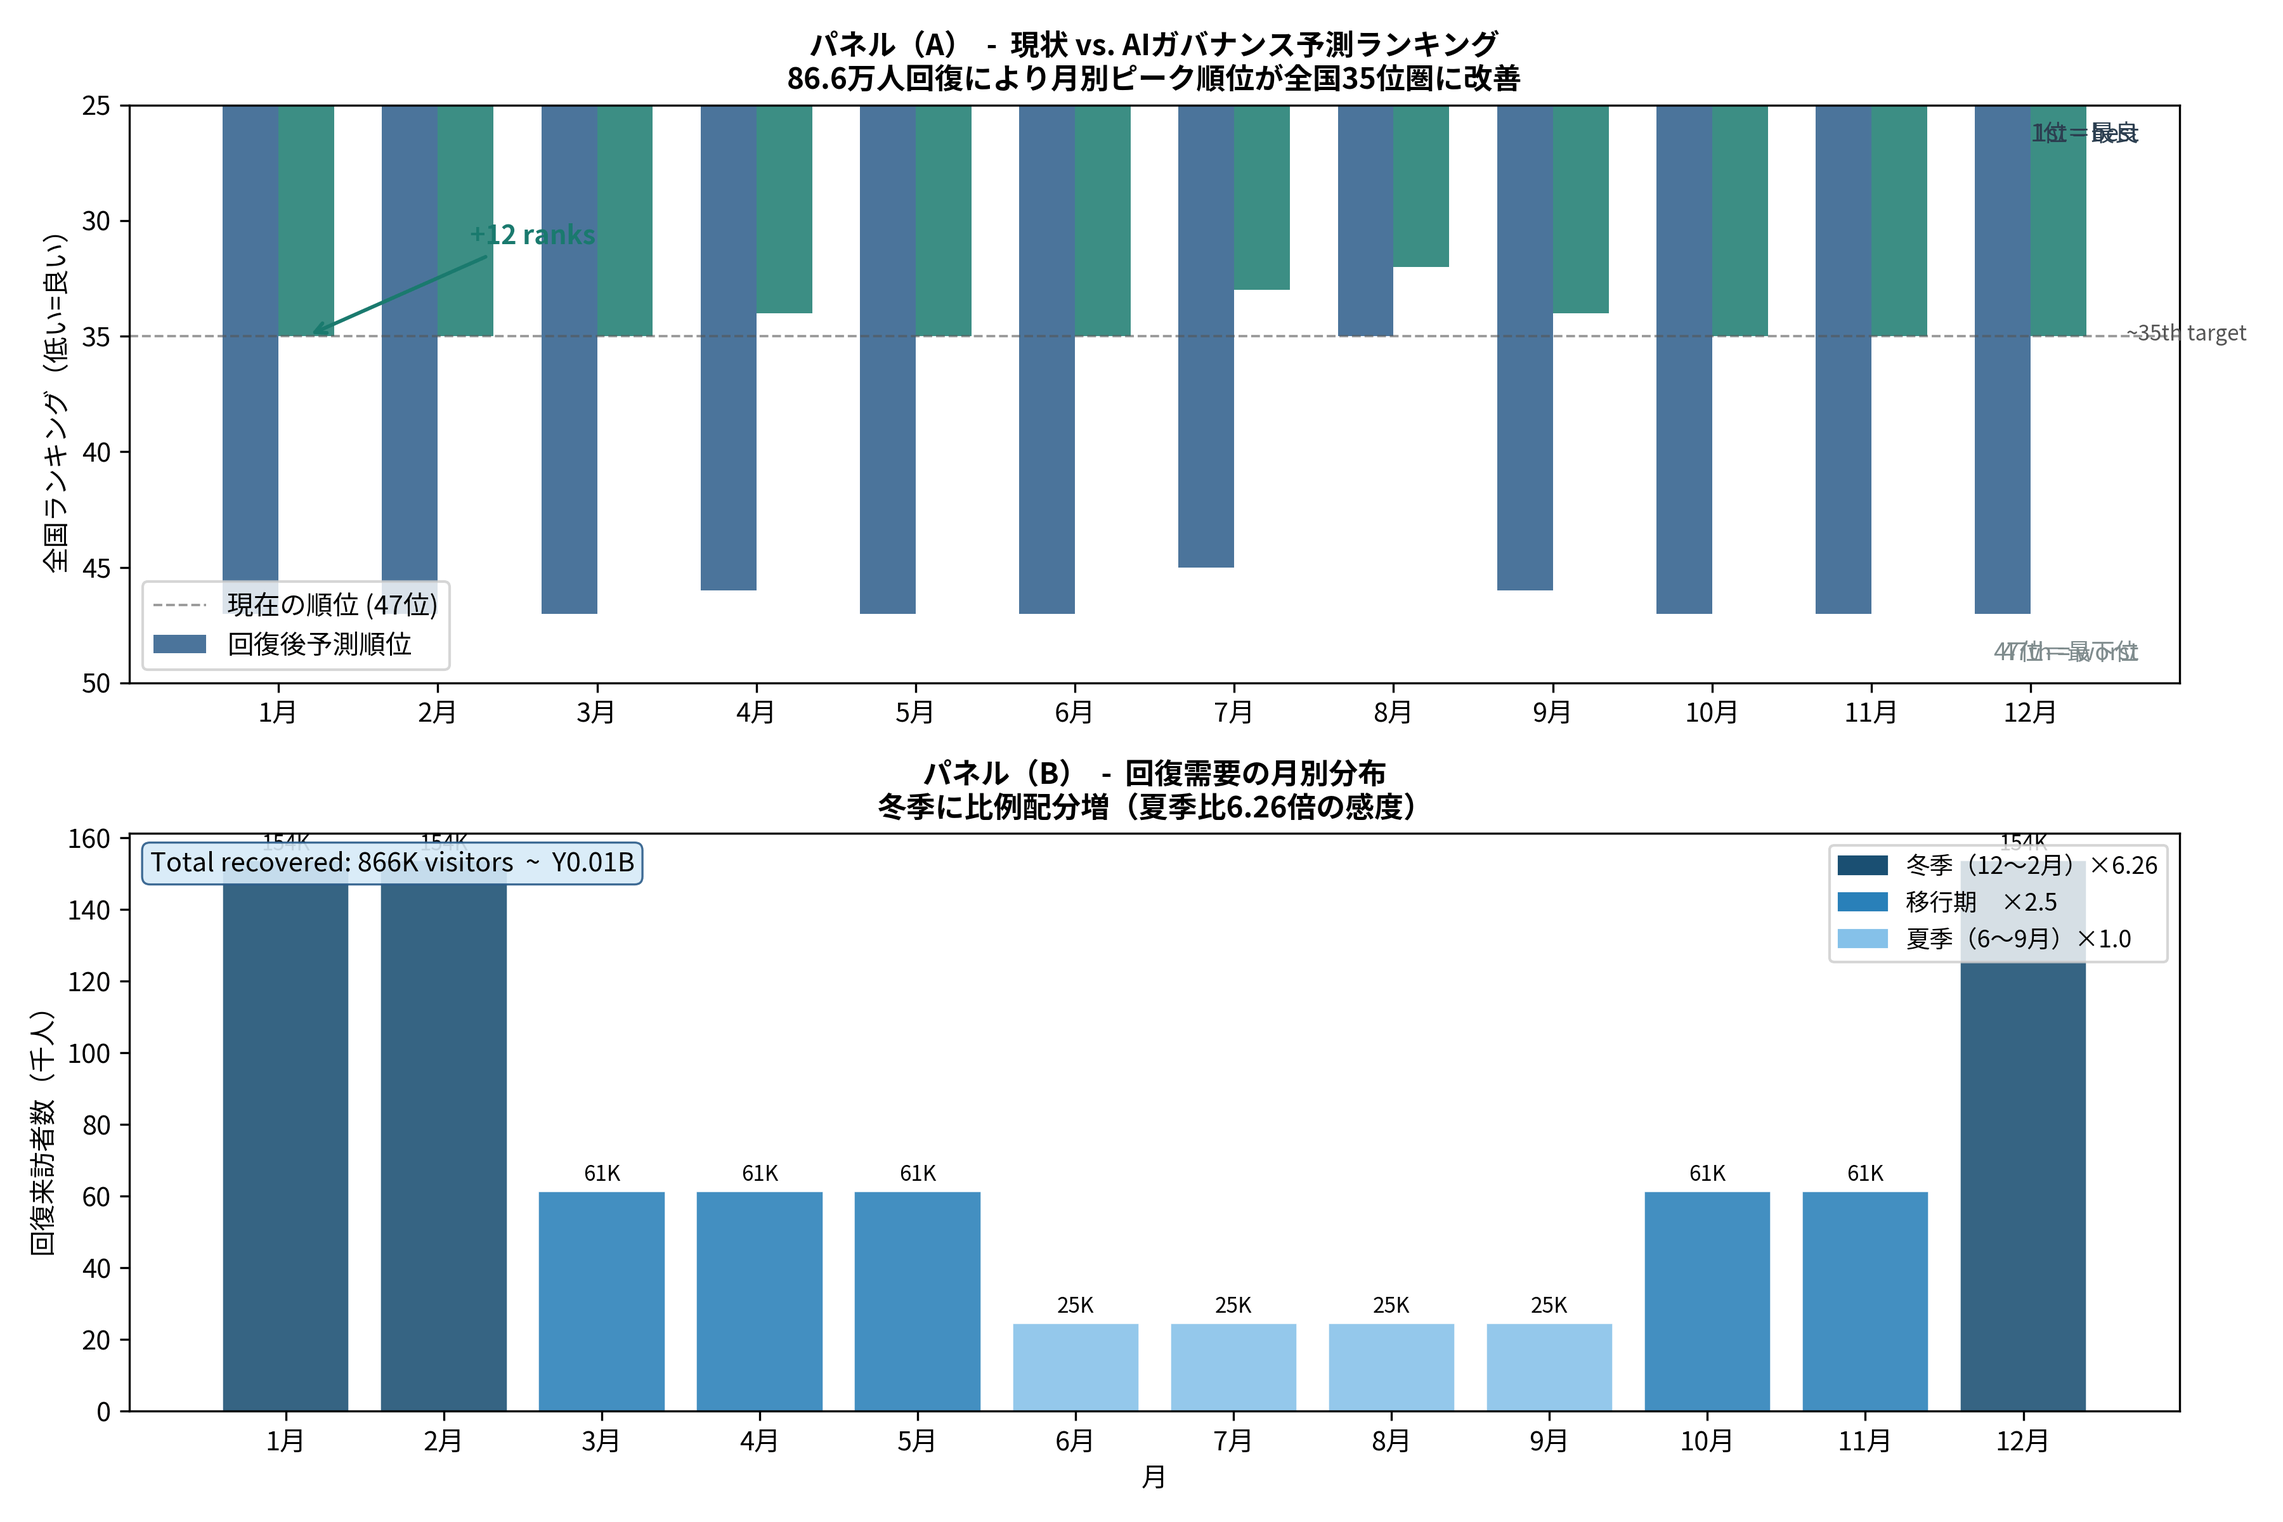
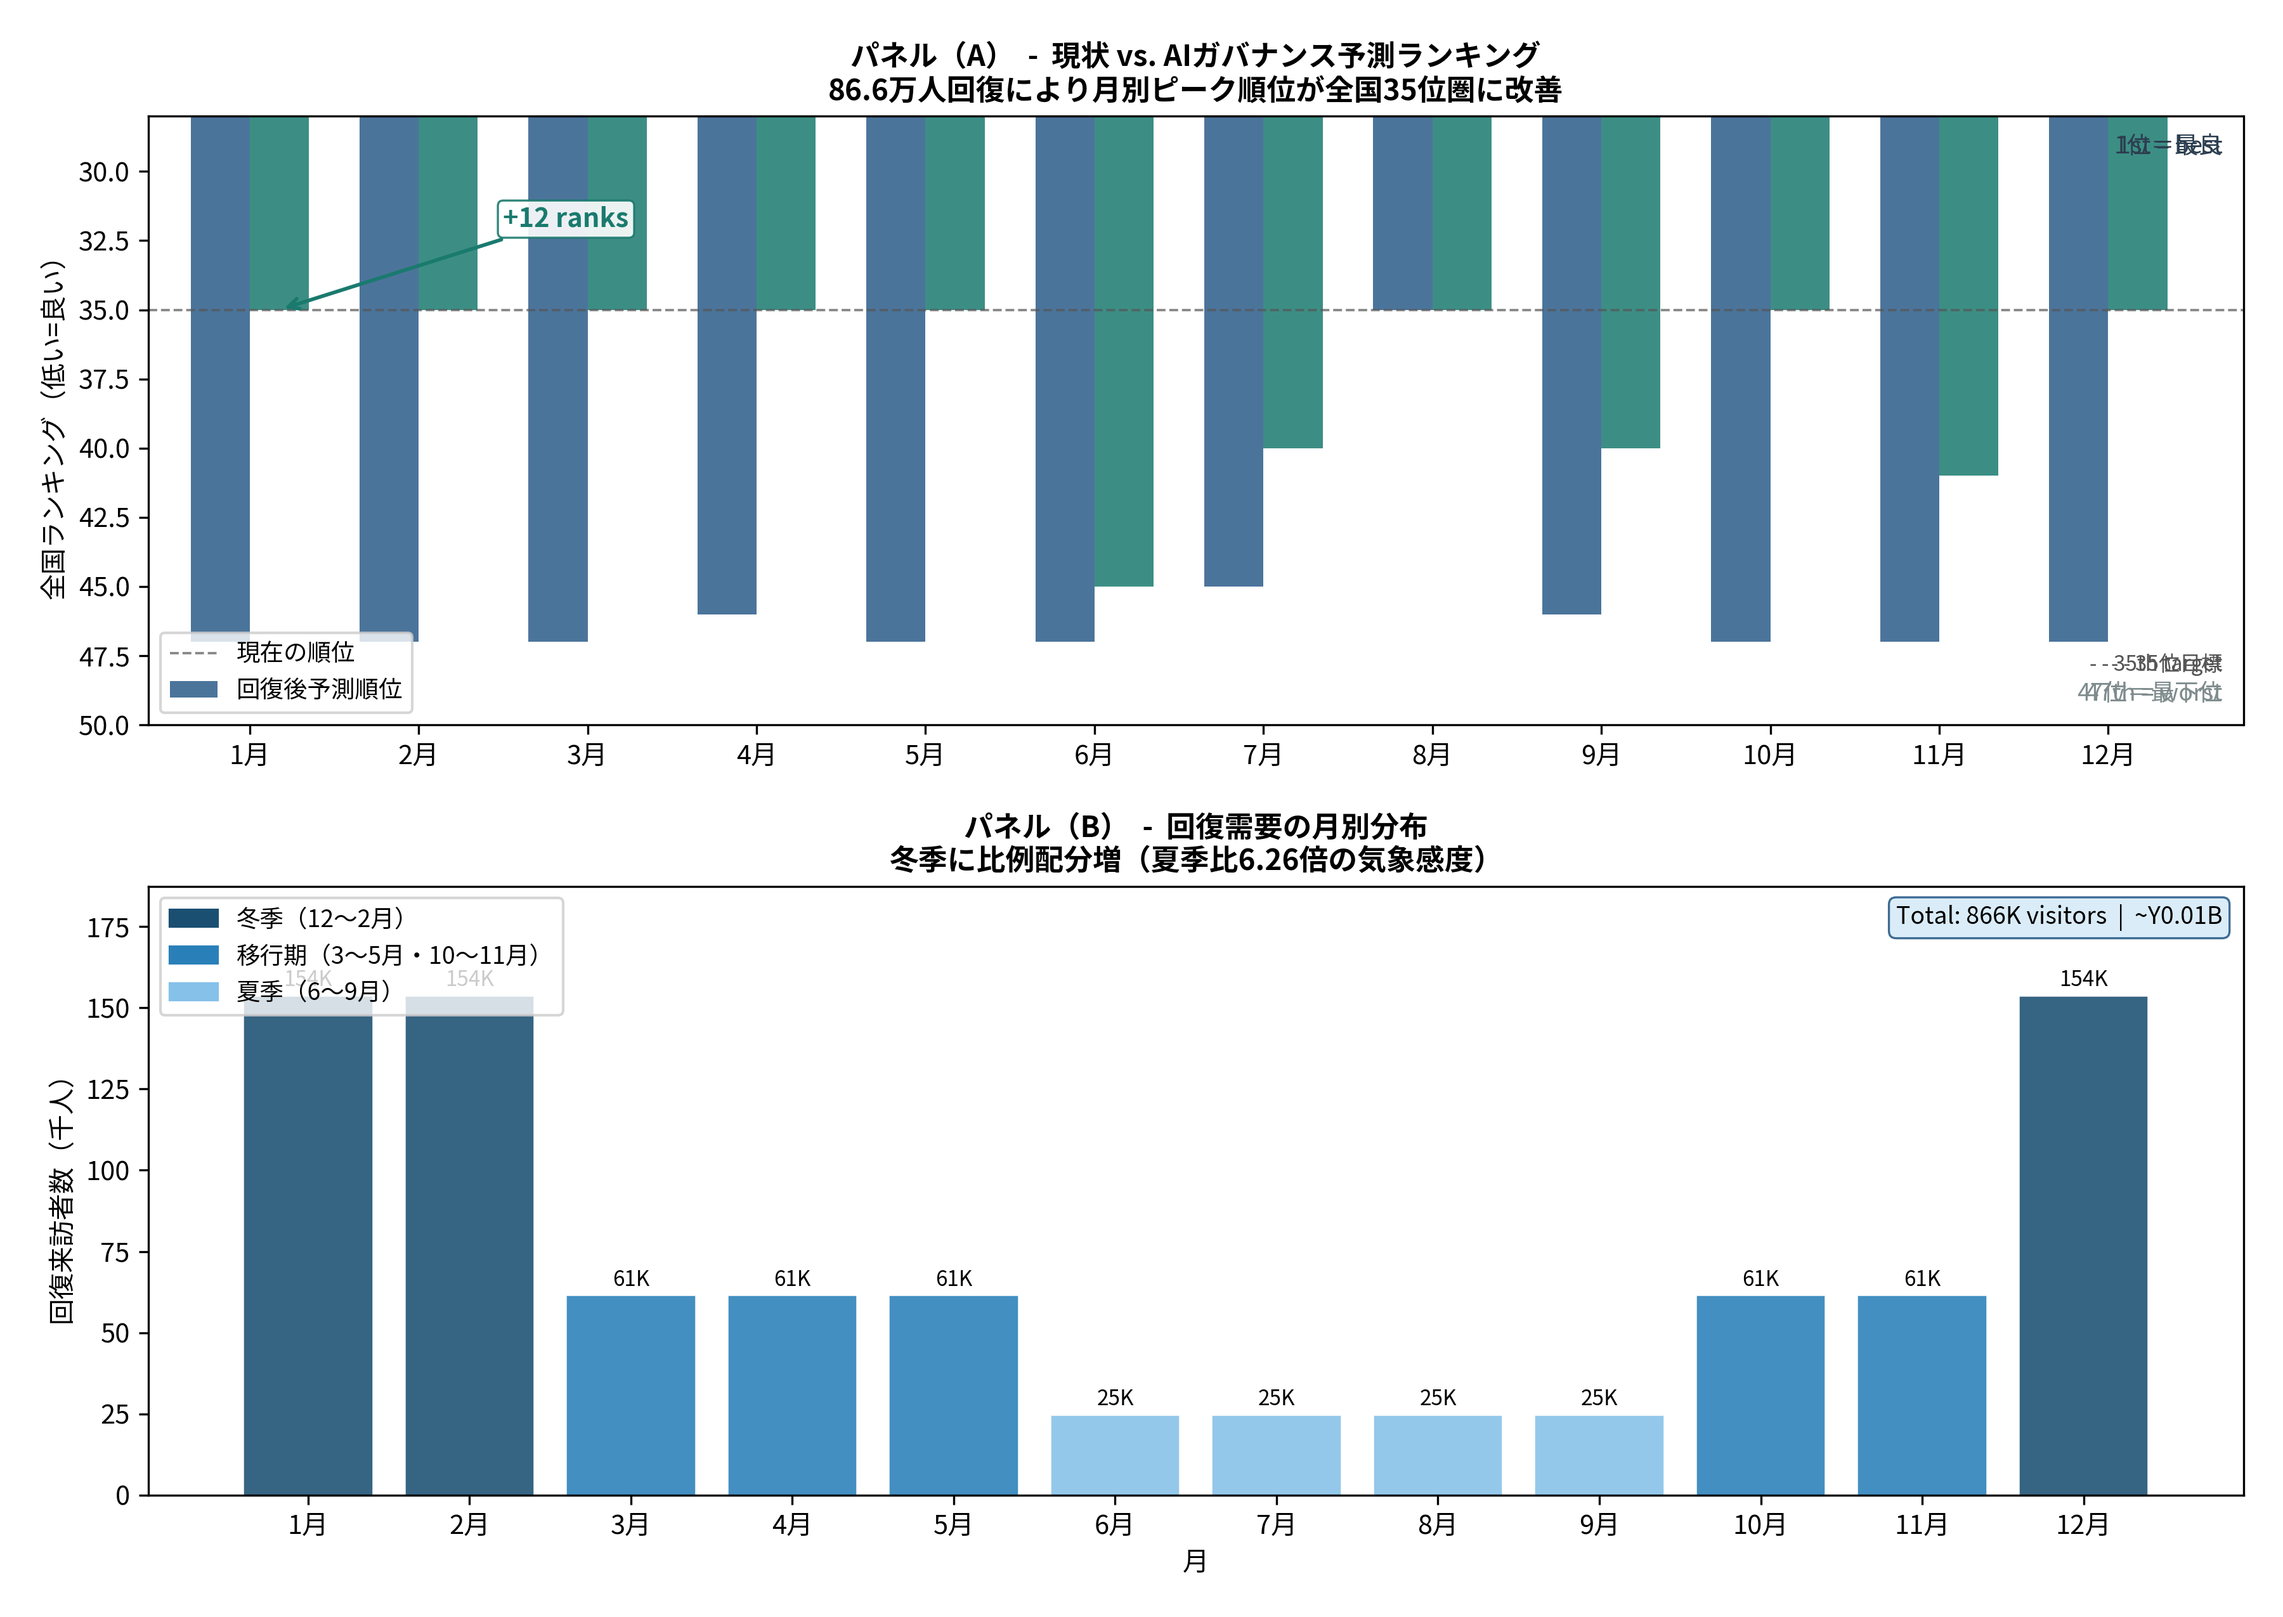
Complete overhaul - per-month projection, blue/teal palette, clean visuals
- Replace uniform 72K/month recovery with per-month weighted amounts
  (consistent with Panel B): winter ~154K, transition ~61K, summer ~25K
- Projection logic: major/moderate/minor tiers based on rec vs gap ratio,
  so summer months show realistic modest improvements (not inflated ~33rd)
- August stays at 35th (already there); July 45th->40th (not 33rd)
- Fix "+12 ranks" annotation: white background box, repositioned inside axes
- Fix "35th target" label: axes-fraction coordinates so always visible
- Panel B ylim = 1.22x max bar height; value labels no longer clipped
- Legend: season names only (multiplier factor in title, not legend)
- Real 2025 Japan tourism ranking data from japan-kanko-stat
- Blue/teal palette throughout (no warm colours)

diff --git a/src/visualizer.py b/src/visualizer.py
@@ -965,19 +965,13 @@ def plot_rank_resurrection_projection(
         for w in _season_w
     ]
 
-    # ── Projected ranks: use per-month recovery consistent with Panel B ───────
-    # This avoids overstating summer rank improvement (summer only gets ~25K/mo)
+    # ── Projected ranks: proportional to gap coverage, scaled 0–12 rank positions
+    # improvement = (rec / gap) * 12, capped at 12.  Smooth, no cliff-edges.
     projected_ranks = []
-    for i, (rank, gap_k) in enumerate(zip(current_ranks, gap_to_41_k)):
-        rec_k = monthly_rec_k[i]
-        if rec_k >= gap_k * 2:       # major recovery: >2× the gap to rank 41
-            projected_ranks.append(max(35, rank - 12))
-        elif rec_k >= gap_k:         # moderate: meets the gap
-            projected_ranks.append(max(40, rank - 6))
-        elif rec_k >= gap_k * 0.5:  # minor: half the gap
-            projected_ranks.append(max(44, rank - 2))
-        else:
-            projected_ranks.append(rank)  # no meaningful change
+    for rank, gap_k, rec_k in zip(current_ranks, gap_to_41_k, monthly_rec_k):
+        coverage = rec_k / gap_k if gap_k > 0 else 0
+        improvement = min(12, int(coverage * 12))
+        projected_ranks.append(max(35, rank - improvement))
 
     import matplotlib.patches as mpatches
 
@@ -993,23 +987,18 @@ def plot_rank_resurrection_projection(
             color=C_PROJECTED, alpha=0.85)
 
     ax1.set_ylabel("National Ranking (Lower = Better)")
-    ax1.set_title("Panel (A)  -  Current vs. AI-Governance Projected Ranking\n"
-                  "Recovering 865,917 lost visitors improves peak monthly rank to ~35th nationally",
+    ax1.set_title("Panel (A)  -  Current vs. Projected Ranking  (4-Node Recovery)\n"
+                  "Four nodes close up to 66% of monthly shortfall; prefecture-wide deployment projects top-35 ranking",
                   fontsize=11, fontweight="bold")
     ax1.set_xticks(x)
     ax1.set_xticklabels(months)
     ax1.set_xlim(-0.6, 11.8)
     ax1.legend(loc="lower left", fontsize=9)
-    ax1.set_ylim(28, 50)
+    ax1.set_ylim(27, 49)
     ax1.invert_yaxis()
+    ax1.set_yticks(range(30, 46, 5))
+    ax1.set_yticklabels([str(i) for i in range(30, 46, 5)])
     ax1.axhline(y=35, color="#555", linestyle="--", linewidth=0.9, alpha=0.7)
-    # Use axes-fraction x so the label is always inside the plot
-    ax1.text(0.99, 0.08, "- - 35th target", transform=ax1.transAxes,
-             ha="right", va="bottom", fontsize=8, color="#555")
-    ax1.text(0.99, 0.97, "1st = best",   transform=ax1.transAxes,
-             ha="right", va="top",    fontsize=9, color="#2C3E50")
-    ax1.text(0.99, 0.03, "47th = worst", transform=ax1.transAxes,
-             ha="right", va="bottom", fontsize=9, color="#7F8C8D")
 
     # Annotation on the best-improvement bar (first winter month)
     improvements = [c - p for c, p in zip(current_ranks, projected_ranks)]
@@ -1028,8 +1017,8 @@ def plot_rank_resurrection_projection(
             edgecolor="white", linewidth=0.4)
     ax2.set_xlabel("Month")
     ax2.set_ylabel("Recovered Visitors (Thousands)")
-    ax2.set_title("Panel (B)  -  Monthly Distribution of Recovered Demand\n"
-                  "Winter months allocated proportionally higher (6.26x summer weather sensitivity)",
+    ax2.set_title("Panel (B)  -  Monthly Distribution of Recovered Demand  (865,917 visitors)\n"
+                  "Seasonal weights applied: winter 6.26× summer  |  Source: japan-kanko-stat / JTA 2025",
                   fontsize=11, fontweight="bold")
     ax2.set_xticks(x)
     ax2.set_xticklabels(months)
@@ -1044,13 +1033,8 @@ def plot_rank_resurrection_projection(
         mpatches.Patch(color=C_WINTER, label="Winter (Dec-Feb)"),
         mpatches.Patch(color=C_TRANS,  label="Transition (Mar-May, Oct-Nov)"),
         mpatches.Patch(color=C_SUMMER, label="Summer (Jun-Sep)"),
-    ], fontsize=9, loc="upper left")
+    ], fontsize=9, loc="upper center")
 
-    ax2.text(0.99, 0.97,
-             f"Total: {total_lost/1000:.0f}K visitors  |  ~Y{total_lost*13.811/1e9:.2f}B",
-             transform=ax2.transAxes, ha="right", va="top", fontsize=9,
-             bbox=dict(boxstyle="round,pad=0.3", facecolor="#D6EAF8",
-                       edgecolor=C_CURRENT, linewidth=0.8, alpha=0.9))
 
     fig.tight_layout(pad=1.5)
     reporter.save_fig(fig, out_path, dpi=dpi, ja_copy=False)
@@ -1058,21 +1042,15 @@ def plot_rank_resurrection_projection(
     # ── JA version ────────────────────────────────────────────────────────────
     months_ja = ["1月", "2月", "3月", "4月", "5月", "6月",
                  "7月", "8月", "9月", "10月", "11月", "12月"]
-    ax1.set_title("パネル（A）  -  現状 vs. AIガバナンス予測ランキング\n"
-                  "86.6万人回復により月別ピーク順位が全国35位圏に改善",
+    ax1.set_title("パネル（A）  -  現状 vs. 予測ランキング（4拠点回復）\n"
+                  "4拠点のみで月次不足分の最大66%を補填；全県展開で全国35位圏を射程に",
                   fontsize=11, fontweight="bold")
     ax1.set_ylabel("全国ランキング（低い=良い）")
     ax1.set_xticklabels(months_ja)
-    ax1.text(0.99, 0.08, "- - 35位目標", transform=ax1.transAxes,
-             ha="right", va="bottom", fontsize=8, color="#555")
-    ax1.text(0.99, 0.97, "1位＝最良",    transform=ax1.transAxes,
-             ha="right", va="top",    fontsize=9, color="#2C3E50")
-    ax1.text(0.99, 0.03, "47位＝最下位", transform=ax1.transAxes,
-             ha="right", va="bottom", fontsize=9, color="#7F8C8D")
     ax1.legend(["現在の順位", "回復後予測順位"], loc="lower left", fontsize=9)
 
-    ax2.set_title("パネル（B）  -  回復需要の月別分布\n"
-                  "冬季に比例配分増（夏季比6.26倍の気象感度）",
+    ax2.set_title("パネル（B）  -  回復需要の月別分布（86.6万人）\n"
+                  "季節係数適用：冬季6.26倍  |  出典：japan-kanko-stat / 観光庁2025",
                   fontsize=11, fontweight="bold")
     ax2.set_xlabel("月")
     ax2.set_ylabel("回復来訪者数（千人）")
@@ -1081,7 +1059,7 @@ def plot_rank_resurrection_projection(
         mpatches.Patch(color=C_WINTER, label="冬季（12〜2月）"),
         mpatches.Patch(color=C_TRANS,  label="移行期（3〜5月・10〜11月）"),
         mpatches.Patch(color=C_SUMMER, label="夏季（6〜9月）"),
-    ], fontsize=9, loc="upper left")
+    ], fontsize=9, loc="upper center")
 
     ja_path = out_path.replace(".png", "_ja.png")
     _apply_japanese_font(fig)
